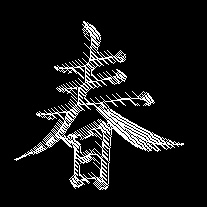
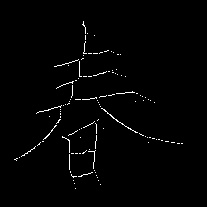
Refactor image scaling using Bilinear Interpolation

Changed region(s): [[0.1159, 0.087, 0.8986, 0.9275], [0.087, 0.7536, 0.1159, 0.7826]]

diff --git a/HW3/110590004_hw3.py b/HW3/110590004_hw3.py
@@ -18,10 +18,11 @@ def problem(func):
 
 class Q:
     def __init__(self):
-        # self.origin_images = [ cv2.imread('./images/img' + str(i) + '.jpg') for i in range(1, 5)]
-        self.origin_images = [cv2.imread('./images/test_32.png')]
+        self.origin_images = [cv2.imread(
+            './images/img' + str(i) + '.jpg') for i in range(1, 5)]
+        # self.origin_images = [cv2.imread('./images/test_32.png')]
         self.images = []
-        for i in range(self.origin_images.__len__()):
+        for i in range(1, self.origin_images.__len__() + 1):
             thresh = 0
             width, height, _ = self.origin_images[i - 1].shape
             hist = [0] * 256
@@ -103,6 +104,7 @@ class Q:
                         row[y + 1] = image[i + x][j + y]
                 neighbors.append(row)
             return np.array(neighbors)
+
         def get_neighbors_4(image, i, j, width, height):  # get 4-neighbors
             result = np.zeros((3, 3))
             if i - 1 >= 0:
@@ -114,6 +116,7 @@ class Q:
             if j + 1 < height:
                 result[1, 2] = image[i, j + 1]
             return result
+
         def get_neighbors_corner(image, i, j, width, height):  # get corner neighbors
             result = np.zeros((3, 3))
             if i - 1 >= 0 and j - 1 >= 0:
@@ -126,7 +129,6 @@ class Q:
                 result[2, 2] = image[i + 1, j + 1]
             return result
 
-        
         def critical(neighbors):
             if np.sum(neighbors[0, :]) != 0 and np.sum(neighbors[2, :]) != 0 and np.sum(neighbors[1, :]) == 0:
                 return True
@@ -168,7 +170,8 @@ class Q:
                                 neighbors = get_neighbors_8(
                                     f_pre, row, col, width, height)
                                 fm[row, col] = f0[row, col] + np.min(neighbors)
-                                local_max[row, col] = 1 if fm[row,col] >= np.max(neighbors) else 0
+                                local_max[row, col] = 1 if fm[row,
+                                                              col] >= np.max(neighbors) else 0
                                 if fm[row][col] != f_pre[row][col]:
                                     flag = 1
                                 bar()
@@ -178,25 +181,97 @@ class Q:
                 temp = np.zeros((width, height, 3))
                 for row in range(width):
                     for col in range(height):
-                        print (int(fm[row][col]), end=' ')
+                        # print(int(fm[row][col]), end=' ')
                         temp[row][col] = 0 if fm[row][col] == 0 else fm[row][col] * \
                             255 / np.max(fm)
-                    print()
+                    # print()
                 cv2.imwrite('./results/img' + str(i + 1) + '_q1-1.jpg', temp)
 
-                result = deepcopy(f0)
+                boundary_points = set()
+                for row in range(width):
+                    for col in range(height):
+                        if (fm[row][col] != 1):
+                            continue
+                        neighbors = get_neighbors_8(
+                            fm, row, col, width, height)
+                        for x in range(-1, 2):
+                            for y in range(-1, 2):
+                                if neighbors[x + 1][y + 1] == 0 and (row + x >= 0 and row + x < width and col + y >= 0 and col + y < height):
+                                    boundary_points.add((row + x, col + y))
+                # draw boundary points
+                temp = np.zeros((width, height, 3))
+                for point in boundary_points:
+                    temp[point[0], point[1]] = [255, 255, 255]
+                cv2.imwrite('./debug/img' + str(i + 1) + '_boundary.jpg', temp)
+                # print('Boundary points:', boundary_points)
+
+                
+                def chessboard_distance(p1, p2):
+                    return max(abs(p1[0] - p2[0]), abs(p1[1] - p2[1]))
+
+                def find_feature_points(p, distance):
+                    feature_points = set()
+                    for point in boundary_points:
+                        if chessboard_distance(p, point) == distance:
+                            feature_points.add(point)
+                    return feature_points
+                # result = deepcopy(f0)
+                LR_Cdt = np.zeros((width, height))
+                f_pre = deepcopy(f0)
+                local_max = np.zeros((width, height))
+                while True:
+                    flag = 0
+                    with alive_bar(width * height) as bar:
+                        for row in range(width):
+                            for col in range(height):
+                                if f0[row][col] == 0:
+                                    bar()
+                                    continue
+                                neighbors = get_neighbors_8(
+                                    f_pre, row, col, width, height)
+                                LR_Cdt[row, col] = f0[row, col] + min(neighbors[2, 2], neighbors[2, 1], neighbors[1, 2])
+                                if LR_Cdt[row][col] != f_pre[row][col]:
+                                    flag = 1
+                                bar()
+                    f_pre = deepcopy(LR_Cdt)
+                    if flag == 0:
+                        break
+                # LR_Cdt[-1, :] = 0
+                # LR_Cdt[:, -1] = 0
+                MAT = LR_Cdt  
+                # for row in range(width):
+                #     for col in range(height):
+                #         print(int(MAT[row][col]), end=' ')
+                #     print()
+                result = np.zeros((width, height))
+                for row in range(width):
+                    for col in range(height):
+                        if (MAT[row][col] == 0):
+                            result[row][col] = 0
+                            continue
+                        neighbors = get_neighbors_8(MAT, row, col, width, height)
+                        if(max(neighbors[0,0], neighbors[0,1], neighbors[1,0]) <= MAT[row][col]):
+                            result[row][col] = 1
+                 
                 print('Skeletonizing...')
-                with alive_bar(width * height) as bar:
-                    for row in range(width):
-                        for col in range(height):
-                            neighbors = get_neighbors_8(
-                                fm, row, col, width, height)
-                            
-                            if (fm[row, col] < np.max(neighbors)):
-                                result[row, col] = 0
-                                # if critical(get_neighbors_8(result, row, col, width, height)):
-                                #     result[row, col] = 1
-                            bar()
+                # with alive_bar(width * height) as bar:
+                #     for row in range(width):
+                #         for col in range(height):
+                #             if (fm[row][col] == 0):
+                #                 bar()
+                #                 continue
+                #             # F = find_feature_points((row, col), fm[row][col])
+                #             # if len(F) >= 8:
+                #             #     result[row, col] = 1
+                #             neighbors = get_neighbors_8(
+                #                 fm, row, col, width, height)
+                #             if (max(neighbors[0, 0], neighbors[0, 1], neighbors[1, 0]) < fm[row, col]):
+                #                 result[row, col] = 1
+                #             # if (fm[row, col] < np.max(neighbors)):
+                #             #     result[row, col] = 0
+                #                 # if critical(get_neighbors_8(result, row, col, width, height)):
+                #                 #     result[row, col] = 1
+                #             bar()
                 for row in range(width):
                     for col in range(height):
                         result[row][col] = 0 if result[row][col] == 0 else 255
